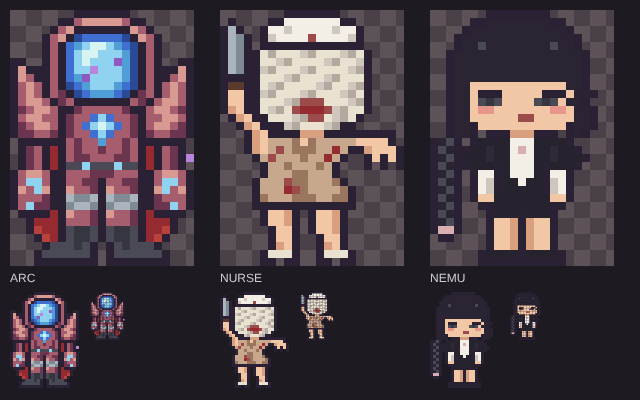
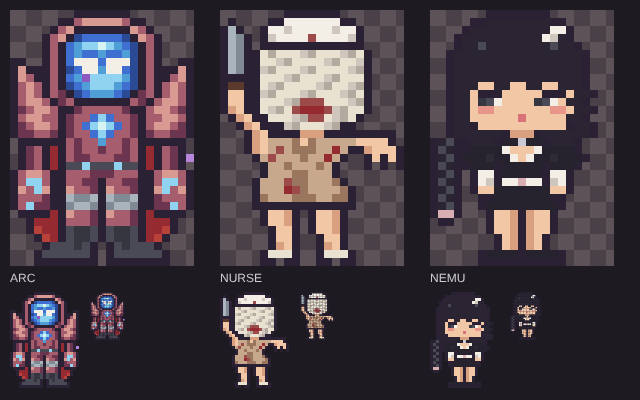
Арк Варден: белые глаза; Нему: чокер, ближе к референсу; Медсестра одобрена
Claude-Session: https://claude.ai/code/session_01GBcWmrfcQASGByBaHimvVv

diff --git a/drafts/workers.js b/drafts/workers.js
@@ -1,7 +1,7 @@
 // Черновик новых сотрудников: спрайты. В игру ещё не вставлено. Статы, перки и скиллы в docs/employees.md, раздел «План: новые сотрудники».
 // Список: Сквонч, Канеки, Макаронный монстр, Подсолнух ГВ2, Живой плющ/мухобойка, Медаедь, Рейвен, Арк Варден, Медсестра, Нему.
 // Спрайты 23×32 (как у остальных), RLE как в game/index.html.
-// Статус: все десять нарисованы; Макаронный монстр, Подсолнух, мухоловка и Медаедь одобрены, Канеки, Сквонч, Рейвен, Арк Варден, Медсестра и Нему ждут одобрения (drafts/arc-nurse-nemu-preview.png, превью drafts/raven-preview.png, drafts/kaneki-, squanch-, spaghetti-, sunflower-, flytrap-, honeybear-preview.png).
+// Статус: все десять нарисованы; Макаронный монстр, Подсолнух, мухоловка, Медаедь и Медсестра одобрены, Канеки, Сквонч, Рейвен, Арк Варден и Нему ждут одобрения (drafts/arc-nurse-nemu-preview.png, превью drafts/raven-preview.png, drafts/kaneki-, squanch-, spaghetti-, sunflower-, flytrap-, honeybear-preview.png).
 
 // ===== Канеки: обычный (официант Антейку, повязка) и гуль на время скилла (белые волосы, маска, красные кагуне), как Сильвер → WOLF =====
   const KANEKI = ['7.8k8.', '5.2k8h2k6.', '4.k12hk5.', '3.k3h3=8hk4.', '2.k2h2=7h2=3hk3.', '2.k16hk3.', '2.k16hk3.', '2.k3hs6hs5hk3.', '2.k2h2s2hs2h2s2hs2hk3.', '2.kh2s4k2sD4WDhk3.', '2.khskWAWA2sWDWD3Wk3.', '2.khskWAGA2s5Wshk3.', '2.kh2s4k2sWDWDWshk3.', '2.khsc6sD3WDchk3.', '2.kh6s2m6shk3.', '3.2k12s2k4.', '5.4k4s4k6.', '2.k3W2g2W2%2W2g3Wk3.', '2.kDWk2g2Wm%2W2gkWDk3.', '2.kDWk3gW2mW3gkWDk3.', '2.kDWk4gm%4gkWDk3.', '2.kDWk4g%m4gkWDk3.', '2.kDWk4gGk4gkWDk3.', '2.kDWk4gG5gkWDk3.', '2.kDWk4gGk4gkWDk3.', '2.k2sk10Gk2sk3.', '2.k2sk10bk2sk3.', '5.k4b2k4bk6.', '5.k4b2k4bk6.', '5.kbN2b2k2bNbk6.', '4.k5B2k5Bk5.', '4.6k2.6k5.'];
@@ -28,16 +28,16 @@
 // Новые цвета в PAL (русские буквы): ж: '#6c66c0' (плащ, свет), з: '#46409a' (плащ и купальник), э: '#2c2866' (тень плаща), и: '#ece2ef' (бледная кожа)
   const RAVEN = ['8.7k8.', '6.2k5ж2з2k6.', '5.k8ж3зk5.', '4.k10ж3зk4.', '3.k12ж3зk3.', '3.k3ж2э5ж2э3зk3.', '2.k3жэ3ш3ж3шэ3зk2.', '2.k2жэ5шж5шэ2зk2.', '2.k2жэ2ш3эR3э2шэ2зk2.', '2.k2жэ2ш2w3э2w2шэ2зk2.', '2.k2жэ2ш7и2шэ2зk2.', '2.k2жэ2шc5иc2шэ2зk2.', '2.k2жэ2ш3иm3и2шэ2зk2.', '2.k2ж2э2ш6иш2э2зk2.', '3.k2ж3э2kR2k3э2зk3.', '2.k2ж4э5з3э3зk2.', '2.k2ж2эkж6зk2э2зk2.', '2.k2ж2эkжзж4зk2э2зk2.', '2.k2ж2эkж3зэ2зk2эзфk2.', '.k2ж3э2kж2зэз2k2э3фk.', '.k2ж3э2kж4з2kэ2фч2фk', '.k2ж2эиZ$2Z$2Z$Zэ2и2зk.', 'k2ж2э2иk7зk3э2зk.', 'k2ж4эk2и3з2иk3э2зk.', 'k2ж4эk3иk3иk4э2зk', 'k2ж4эk3иk3иk4э2зk', 'k2ж4эk3чk3чk4э2зk', 'k2ж4эkзжзkзжзk4э2зk', 'k2ж4эkзжзkзжзk4э2зk', 'k2ж4эk3зk3зk4э2зk', 'k2ж4эk3зk3зk4э2зk', '23k'];
 
-// ===== Арк Варден: голова-сфера со звёздной туманностью в ободе брони, шипастые наплечники, броня цвета сухой розы, светящееся ядро на груди, латные перчатки с голубыми камнями, красный плащ =====
+// ===== Арк Варден: голова-сфера со звёздной туманностью и широкими белыми глазами в ободе брони, шипастые наплечники, броня цвета сухой розы, светящееся ядро на груди, латные перчатки с голубыми камнями, красный плащ =====
 // Новые цвета в PAL: б: '#a65d6e' (броня), г: '#6b3550' (тень брони), д: '#d99a92' (блики и шипы)
-  const ARC = ['8.7k8.', '6.2kб5дб2k6.', '5.kбд7kдбk5.', '4.kбдk#5@#kдбk4.', '4.kбk@_?2[?_@#kбk4.', '4.kбk@?2[3?_#kбk4.', '2k2.kбk@?[3?ч_#kбk2.2k', 'kд3kбk@2?ф3?_#kб3kдk', 'kдб2kбk@_ч4?_#kб2kбдk', 'kбдбkбk#@_3?_@#kбkбдбk', 'kбдбkбгk#@3_@#kгбkбдбk', 'kб2дбkгб7kбгkб2дбk', 'kгб2дб2kг5бг2kб2дбгk', 'kб2д2бkг2б@?@2бгk2б2дбk', 'kгб2дбkгб@?[?@бгkб2дбгk', 'k2г2бгkг2б@?@2бгkг2б2гk', '.6kбг2б_2бгб6k.', '.kгбk%kбг2бг2бгбk%kбгk.', '.kгбk%kб2г3б2гбk%kбгkф', '.kгбk%k2g?3g?2gk%kбгk.', 'kб2дб2k3б3г3б2kб2дбk', 'kб2?б2k2б2гk2б2г2kб2?бk', 'kдб?д2kд2бгkд2бг2kд?бдk', 'k3бг2ka2Aaka2Aa2kг3бk', 'kб?2г2kA2aAkA2aA2k2г?бk', '.4k%kд2бгkд2бгk%4k.', '2.k3%k3бгk3бгk3%k2.', '2.kr2%kg2Ggkg2Ggk2%rk2.', '3.kr%kg2Ggkg2Ggk%rk3.', '4.k3gGgk.kgG3gk4.', '3.k6gk.k6gk3.', '3.8k.8k3.'];
+  const ARC = ['8.7k8.', '6.2kб5дб2k6.', '5.kбд7kдбk5.', '4.kбдk#5@#kдбk4.', '4.kбk@_2?[?_@#kбk4.', '4.kбk@_2@_2@_#kбk4.', '2k2.kбk@3w@3w#kбk2.2k', 'kд3kбk#@2w_2w@#kб3kдk', 'kдб2kбk@_ч4?_#kб2kбдk', 'kбдбkбk#@_3?_@#kбkбдбk', 'kбдбkбгk#@3_@#kгбkбдбk', 'kб2дбkгб7kбгkб2дбk', 'kгб2дб2kг5бг2kб2дбгk', 'kб2д2бkг2б@?@2бгk2б2дбk', 'kгб2дбkгб@?[?@бгkб2дбгk', 'k2г2бгkг2б@?@2бгkг2б2гk', '.6kбг2б_2бгб6k.', '.kгбk%kбг2бг2бгбk%kбгk.', '.kгбk%kб2г3б2гбk%kбгkф', '.kгбk%k2g?3g?2gk%kбгk.', 'kб2дб2k3б3г3б2kб2дбk', 'kб2?б2k2б2гk2б2г2kб2?бk', 'kдб?д2kд2бгkд2бг2kд?бдk', 'k3бг2ka2Aaka2Aa2kг3бk', 'kб?2г2kA2aAkA2aA2k2г?бk', '.4k%kд2бгkд2бгk%4k.', '2.k3%k3бгk3бгk3%k2.', '2.kr2%kg2Ggkg2Ggk2%rk2.', '3.kr%kg2Ggkg2Ggk%rk3.', '4.k3gGgk.kgG3gk4.', '3.k6gk.k6gk3.', '3.8k.8k3.'];
 
 // ===== Медсестра (Silent Hill): белый колпак, голова в бинтах без лица, кровь у рта, грязное платье в пятнах, нож в поднятой руке, другая рука вытянута, белые туфли на каблуке =====
 // Новые цвета в PAL: ц: '#c8a88c' (платье), щ: '#9a765e' (тень платья)
   const NURSE = ['8.7k8.', '.k4.2k7w2k6.', 'kak2.k2wD5wD2wk5.', 'kaAk.kD4wm4wDk5.', 'kaAk.13k5.', 'kaA2kx^3xD^3xD^xk4.', 'kaA2k2xD^4xD^2xDk4.', 'kaA2kD^3xD^4xD^k4.', '5k3xD^3xD^3xk4.', 'k2B2kxD^4xD^2xD^k4.', 'k2s2kD^3xD^3xD^xk4.', 'k2s2k3xD^3m3xD^k4.', 'kSs2kxD^xm3%mD^2xk4.', '.kSs2k3xD^2mxD^xk5.', '2.kSs3kD^3xD^2k6.', '3.kSs4k3S9k.', '3.kSs3цщsщ5ц4sk.', '3.kSsцmц3щ2ц%ц2kS3sk', '4.kцm3цщ2ц%цk2.ksksk', '5.k2цщ3цщцk3.k.k.k', '5.k3ц2щ3цk8.', '4.k3цm2щ3цщk7.', '4.k3ц%mщ4цщk6.', '4.kщ3ц3щ2ц2щk6.', '4.13k6.', '5.k2sSk.k2sSk7.', '5.k2sSk.k2sSk7.', '6.k2sk.k2sSk7.', '6.k2sk2.k2sk7.', '6.kSsk2.kSsk7.', '5.k3xk2.k3xk6.', '5.2k.2k2.2k.2k6.'];
 
-// ===== Нему (третий референс, Bleach): чёрные волосы с ровной чёлкой, сонные глаза, длинная коса с бусиной, чёрное платье с пышными рукавами, белая вставка с розовой пуговицей, белые рукава, чёрные шорты =====
-  const NEMU = ['7.8k8.', '5.2k8h2k6.', '4.k12hk5.', '3.k14hk4.', '3.k2hg8hg2hk4.', '2.k16hk3.', '2.k16hk3.', '2.k16hk3.', '2.k16hk3.', '2.k2h12s2hk3.', '2.k2hs3k5s3ks2hk2.', '2.k2hsgGg4sgGgs2hk3.', '2.k2hs2c7s2cs2hk2.', '2.k2h6s2m5s2hk2.', '2.k2hk11sk2hk2.', '2.k2hk.3k3S3k.khk3.', 'khgk.k4b3w4bk5.', 'kgh2k2bN2bwiw2bN2bk4.', 'khgk3bN2b3w2bN3bk3.', 'kgh2k3bkb3wbk3bk4.', 'khgk.k2wkb3wbk2wk5.', 'kghk.kwDk2bw2bkDwk5.', 'khgk.kwDk5bkDwk5.', 'kghk.k2s7b2sk5.', 'khgk2.2k7b2k6.', 'kghk3.k3bk3bk7.', 'khgk3.k2sSkS2sk7.', 'k2ik3.k2sSkS2sk7.', '.2k4.k2sSkS2sk7.', '7.k2sSkS2sk7.', '6.k4bk4bk6.', '6.11k6.'];
+// ===== Нему (третий референс, Bleach): чёрные волосы с рваной чёлкой и белой заколкой, сонные глаза, чокер, длинная коса с бусиной, чёрный жакет с пышными рукавами и белым воротником, белый пояс с розовой пуговицей, белые манжеты, чёрная юбка =====
+  const NEMU = ['7.8k8.', '5.2k8h2k6.', '4.k10h2wk5.', '3.k10hwDhk5.', '3.k2hg8hg2hk4.', '2.k16hk3.', '2.k16hk3.', '2.k16hk3.', '2.k16hk3.', '2.k3h2s2h2s2h2s3hk3.', '2.k2hs3k5s3ks2hk2.', '2.k2hsGgw4sGgws2hk3.', '2.k2hs2c7s2cs2hk2.', '2.k2h6sE5s2hk3.', '2.k2hk11sk2hk2.', '2.k6hk3Sk6hk2.', 'khg2k3hk2bp2bk3hk4.', 'kgh2k4bw3sw4bk4.', 'khgk3bN2bwsw2bN3bk3.', 'kgh2k3bk5bk3bk4.', 'khgk.k2wk5bk2wk5.', 'kghk.kwDk2wi2wkDwk5.', 'khgk.k2s7b2sk5.', 'kghk2.2k7b2k6.', 'khgk2.k9bk6.', 'k2ik3.k2sSkS2sk7.', '.2k4.k2sSkS2sk7.', '7.k2sSkS2sk7.', '8.ksSkSsk8.', '8.ksSkSsk8.', '6.k4bk4bk6.', '6.11k6.'];
 
 // ===== drafts/workshops-6-7.js, сцена пиццы: заменяет блок кота (от "// the cat:" до "// flour sacks") =====
 // Пока карта Сквонча не взята, он сидит за столиком; когда он на заводе, стул пустой.

diff --git a/docs/employees.md b/docs/employees.md
@@ -98,6 +98,6 @@
 - **Живой плющ/мухобойка:** голова-ловушка в профиль, пасть открыта влево, зубы сверху и снизу, розовая пасть, свисает рыжий язык. Шея-стебель уходит в серый глиняный горшок, из него торчат зубчатые листья, корни оплетают горшок и служат ножками. Спрайт одобрен.
 - **Медаедь:** бурый медведь, стоит на двух лапах. Круглые уши, светлая морда, мёд на подбородке, румянец. Обнимает глиняный горшок с мёдом, мёд течёт через край. Референса нет, нарисован по описанию. Спрайт одобрен. Перк и скилл по мему «мужчина или медведь» (с кем женщина выбрала бы остаться в лесу).
 - **Рейвен** (взрослая версия, референс от игрока): сине-фиолетовый капюшон с острым мысом над лбом, как на референсе, и распахнутый до земли плащ, из-под капюшона тёмно-фиолетовые волосы, верх лица в тени, глаза светятся белым, бледная кожа, красный камень на лбу и красная застёжка плаща. Взрослая фигура с узкой талией, сине-фиолетовый купальник с высоким вырезом на бёдрах, пояс из золотых дисков с красными камнями, длинные ноги в высоких сапогах до бедра, в руке сгусток тёмной магии. Новые цвета в `PAL`: ж, з, э, и. Превью `drafts/raven-preview.png`. Ждёт одобрения.
-- **Арк Варден** (по Dota 2, референс от игрока): вместо лица сфера со звёздной голубой туманностью и фиолетовыми искрами в ободе брони, огромные шипастые наплечники, броня цвета сухой розы, светящееся голубое ядро на груди, латные перчатки с голубыми камнями, серебряные наколенники, тёмные сапоги, красный плащ за спиной. На время скилла рядом стоит его полупрозрачный голубой двойник. Новые цвета в `PAL`: б, г, д. Превью `drafts/arc-preview.png`. Ждёт одобрения.
-- **Медсестра** (по Silent Hill, референс от игрока): белый колпак, голова в бинтах без лица, кровь у рта, грязное бежевое платье в пятнах крови, в поднятой руке нож, другая рука вытянута в сторону с кривыми пальцами, белые туфли на каблуке. Нарисована в общем милом стиле, без откровенности референса. Новые цвета в `PAL`: ц, щ. Превью `drafts/nurse-preview.png`. Ждёт одобрения.
-- **Нему** (Bleach, референс от игрока, имя не подтверждено): чёрные волосы с ровной чёлкой, сонные полуприкрытые глаза, румянец, длинная чёрная коса сбоку до бёдер с розовой бусиной, чёрное платье с пышными рукавами, белая вставка с розовой пуговицей, белые рукава, чёрные шорты и туфли. Превью `drafts/nemu-preview.png`. Ждёт одобрения.
+- **Арк Варден** (по Dota 2, референс от игрока): вместо лица сфера со звёздной голубой туманностью и фиолетовыми искрами в ободе брони, на ней широкие белые глаза без зрачков, огромные шипастые наплечники, броня цвета сухой розы, светящееся голубое ядро на груди, латные перчатки с голубыми камнями, серебряные наколенники, тёмные сапоги, красный плащ за спиной. На время скилла рядом стоит его полупрозрачный голубой двойник. Новые цвета в `PAL`: б, г, д. Превью `drafts/arc-preview.png`. Ждёт одобрения.
+- **Медсестра** (по Silent Hill, референс от игрока): белый колпак, голова в бинтах без лица, кровь у рта, грязное бежевое платье в пятнах крови, в поднятой руке нож, другая рука вытянута в сторону с кривыми пальцами, белые туфли на каблуке. Нарисована в общем милом стиле, без откровенности референса. Новые цвета в `PAL`: ц, щ. Превью `drafts/nurse-preview.png`. Спрайт одобрен.
+- **Нему** (Bleach, референс от игрока, имя не подтверждено): чёрные волосы с рваной чёлкой и белой заколкой, сонные полуприкрытые глаза, румянец, длинные пряди по бокам, чёрный чокер, длинная чёрная коса сбоку до бёдер с розовой бусиной. Чёрный жакет с пышными рукавами и белым воротником, белый пояс с розовой пуговицей, белые манжеты, чёрная юбка, чёрные туфли. Превью `drafts/nemu-preview.png`. Ждёт одобрения.
